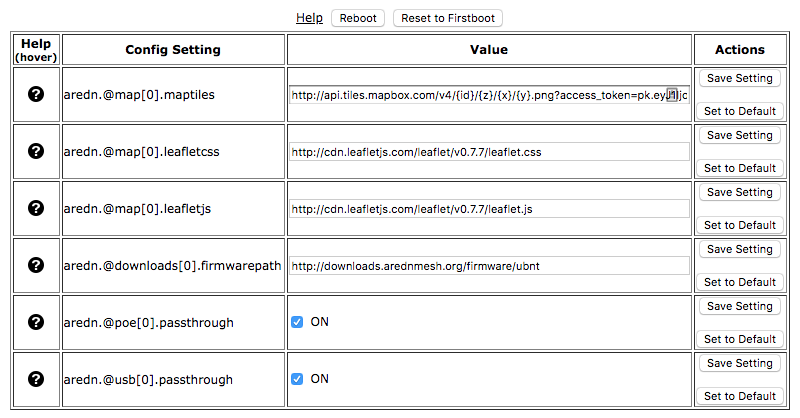
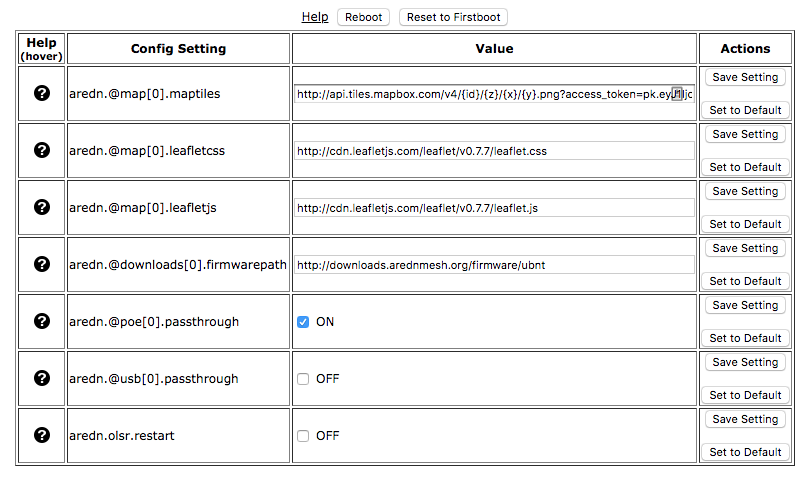
Add features from OpenWRT
Add features inherited from OpenWRT as well as OLSR Restart and 
screenshot fixes.

Changed region(s): [[0.0, 0.0, 1.0, 0.9952]]

diff --git a/arednGettingStarted/advanced_config.rst b/arednGettingStarted/advanced_config.rst
@@ -95,7 +95,7 @@ The *Prevent LAN devices from accessing WAN* checkbox will tell the node not to 
    :alt: WiFi as WAN
    :align: right
 
-If your node has a radio which is not already being used for Mesh RF or as a LAN AP, you can enable it as a WAN interface by checking the *WAN Wifi Client* checkbox. Enter the SSID and authentication string for your wifi AP which has Internet access. The mesh node uses "WPA2 PSK" encryption to connect to the wifi AP. The password length must be a minimum of 8 and maximum of 64 characters. If the key length is 64, it is treated as hex encoded. If the length is 0, then no encryption will be used to connect to an open AP. A single quote character must not be used in the passphrase. 
+If your node has a radio which is not already being used for Mesh RF or as a LAN AP, you can enable it as a WAN interface by checking the *WAN Wifi Client* checkbox. Enter the SSID and authentication string for your wifi AP which has Internet access. The mesh node uses "WPA2 PSK" encryption to connect to the wifi AP. The password length must be a minimum of 8 and maximum of 64 characters. If the key length is 64, it is treated as hex encoded. If the length is 0, then no encryption will be used to connect to an open AP. A single quote character must not be used in the passphrase.
 
 After you have saved changes and rebooted, the node will have Internet access via wifi rather than requiring a cable plugged into the node's WAN port. In fact, enabling the *WAN Wifi Client* will disable VLAN1, so Internet access will no longer be possible through the physical WAN port.
 
@@ -270,7 +270,7 @@ The **Advanced Configuration** section allows you to change settings for various
    :alt: Advanced Configuration
    :align: center
 
-Above the settings table there are links that allow you to 1) view the node help file, 2) reboot the node, or 3) reset the node to a firstboot or "N0CALL" configuration.
+Above the settings table there are links that allow you to 1) view the node help file, 2) reboot the node, or 3) reset the node to a firstboot or "NOCALL" configuration.
 
 Specific values can be set for the following items. You may change these settings and then click the *Save Setting* button.  You may also reset these items to their default values by clicking the *Set to Default* button.
 
@@ -290,8 +290,10 @@ Specific values can be set for the following items. You may change these setting
   Specifies whether Power over Ethernet should be enabled on nodes with ports that support PoE passthrough.
 
 *USB Passthrough*
-  Specifies whether the USB port should be enabled on nodes having a USB port.
+  Specifies whether USB power passthrough should be enabled on nodes having a USB port.
 
+*OLSR Restart*
+  The OLSR routing process can be restarted by clicking the checkbox and then clicking the *Save Setting* button. This can be useful when you want your node to rebuild its mesh routing table but you do not want to do a full reboot.
 
 Node Reset Button
 -----------------
@@ -300,7 +302,7 @@ The reset button on an AREDN |trade| node has two built-in functions based on th
 
 With the node powered on and fully booted:
 
-* **Hold for 5 seconds to reset the password and DHCP server**
+* **Hold for 5 seconds to reset the password and DHCP service**
 * **Hold for 15 seconds to return the node to “just-flashed” condition**
 
 On some equipment models it may be possible to accomplish these reset procedures by pressing the *Reset* button on the PoE unit.

diff --git a/arednGettingStarted/downloading_firmware.rst b/arednGettingStarted/downloading_firmware.rst
@@ -14,5 +14,13 @@ There are two types of firmware images: one for the first-time replacement of th
 
 Once you have selected the correct firmware image for your device, click the link to download the image file to your local computer. Make a note of the download location on your computer, since you will need to use that image to install the AREDN |trade| firmware on your device.
 
+**Features Inherited from OpenWRT for New Architectures**
+  The latest AREDN |trade| firmware contains features which are inherited from the newest OpenWRT upstream release (19.07). The OpenWRT *Release Notes* describe these new features and can be found here: `OpenWRT 19.07 Release Notes <http://openwrt.org/releases/19.07/start>`_
+
+  One important change is the inclusion of a new *target* for the firmware, labelled "ath79", which is the successor to the existing "ar71xx" target. The OpenWRT team explains the new target here: `ath79 <http://openwrt.org/docs/techref/targets/ath79>`_. Their main goal is to bring the code into a form that will allow all devices to run a standard unpatched Linux kernel. This will greatly reduce the amount of customization required and will streamline the firmware build process.
+
+  You may notice that the AREDN |trade| firmware download page has one or both of these firmware versions for specific devices. Refer to the latest `firmware notes <http://downloads.arednmesh.org/snapshots/trunk/readme.md>`_ in order to ensure you have the correct firmware image for your specific device.
+
+
 .. |trade|  unicode:: U+00AE .. Registered Trademark SIGN
    :ltrim:

diff --git a/arednGettingStarted/basic_setup.rst b/arednGettingStarted/basic_setup.rst
@@ -7,7 +7,7 @@ After you have installed the AREDN |trade| firmware, rebooted the device, and co
 ----------
 
 .. image:: _images/01-setup-nocall.png
-   :alt: Setup N0CALL
+   :alt: Setup NOCALL
    :align: center
 
 ----------
